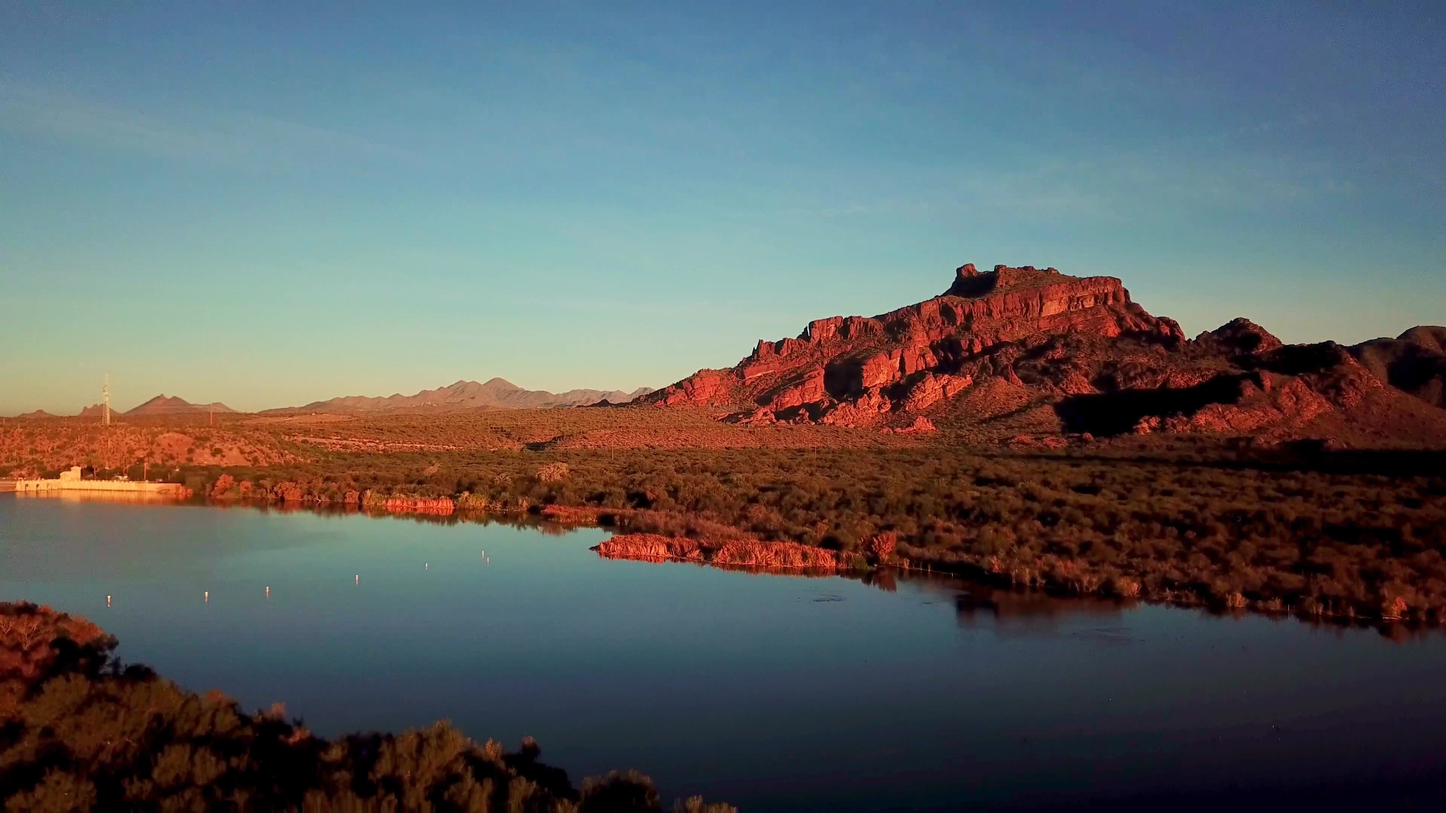
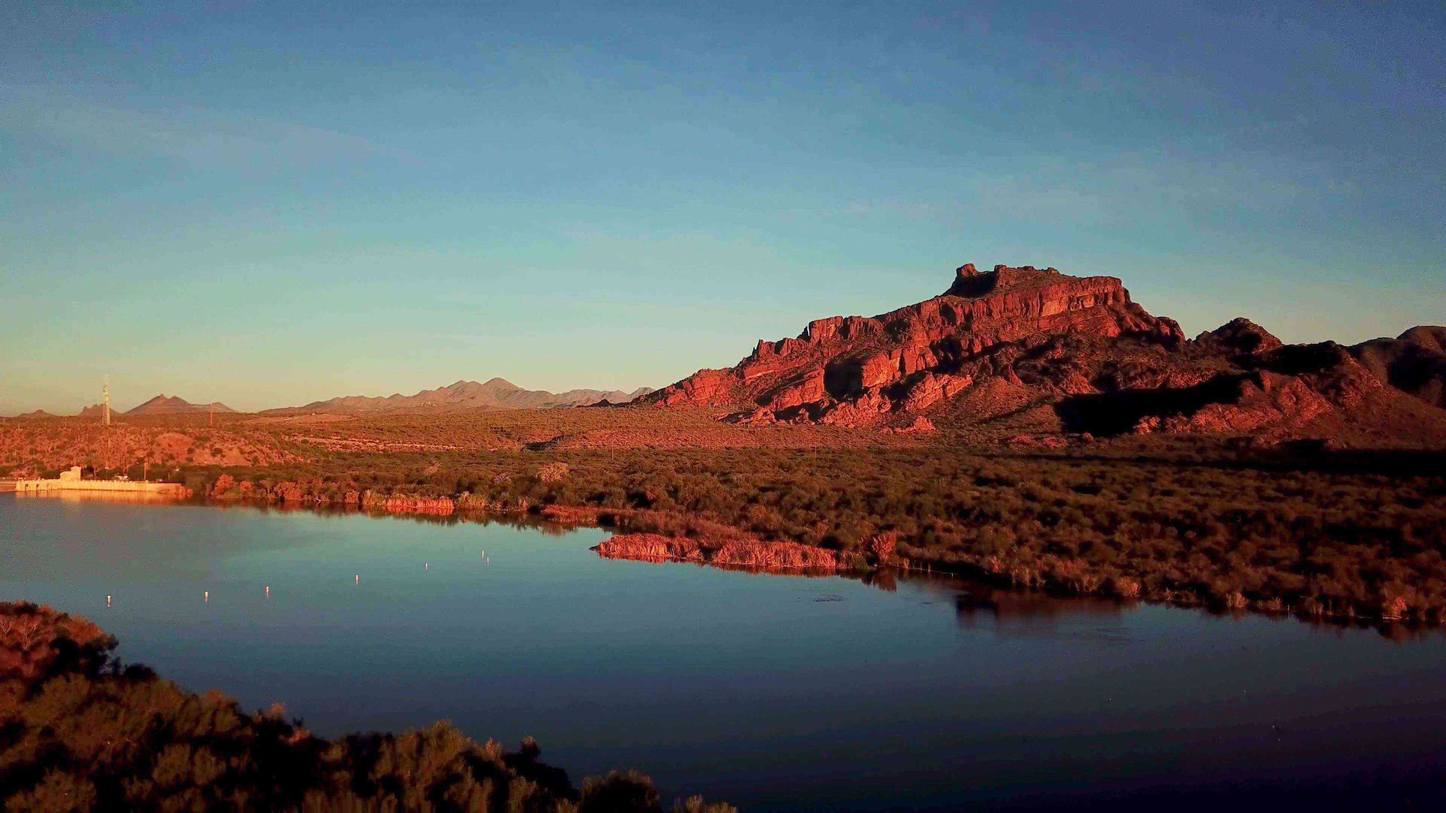
update

diff --git a/js/my.js b/js/my.js
@@ -40,6 +40,11 @@ let vm = new Vue({
         },
         search: function () {
             let url = this.searchEngine[this.isActive].url + this.encodedStr
+            let searcHistory = JSON.parse(localStorage.getItem("searcHistory")) || []
+            searcHistory.unshift(this.searchStr)
+            if (searcHistory.length > 8)
+                searcHistory.pop()
+            localStorage.setItem("searcHistory",JSON.stringify(searcHistory))
             window.open(url)
         },
         sugIn: function (event) {
@@ -59,7 +64,7 @@ function baiduSug(str) {
         sug.src = `https://suggestion.baidu.com/su?wd=${str}&cb=window.baidu.sug`
         document.getElementsByTagName('body')[0].appendChild(sug)
     }
-    else vm.sugArray = []
+    else vm.sugArray = JSON.parse(localStorage.getItem("searcHistory")) || []
 }
 document.getElementsByTagName("input")[0].focus()
 

diff --git a/img/backgrounds/compress.py b/img/backgrounds/compress.py
@@ -1,0 +1,16 @@
+import os
+from PIL import Image
+
+# 指定目标大小（以字节为单位）
+target_size = 256  # 修改为你想要的目标大小
+
+# 获取当前目录下的所有文件
+files = [f for f in os.listdir('.') if os.path.isfile(f)]
+
+# 遍历文件列表
+for file in files:
+    # 检查文件是否为图片（支持的格式可根据实际需求修改）
+    if file.lower().endswith(('.jpg', '.jpeg', '.png', '.gif')):
+        img = Image.open(file)
+        img.save(file,quality=30)
+        print(f"Compressed {file}. New size: {os.path.getsize(file)} bytes")
